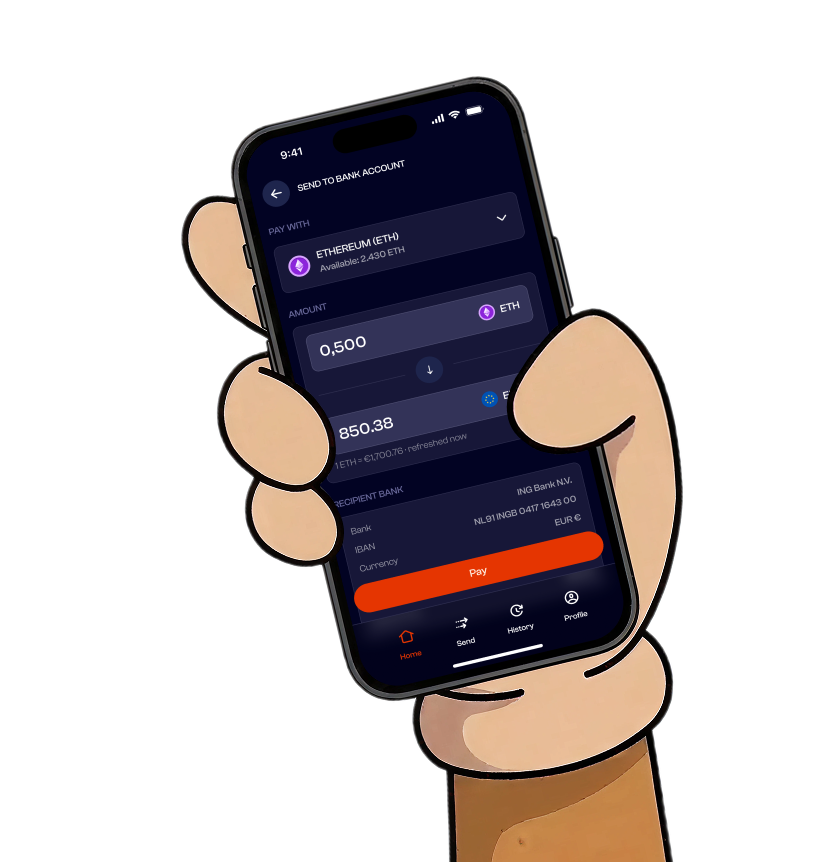
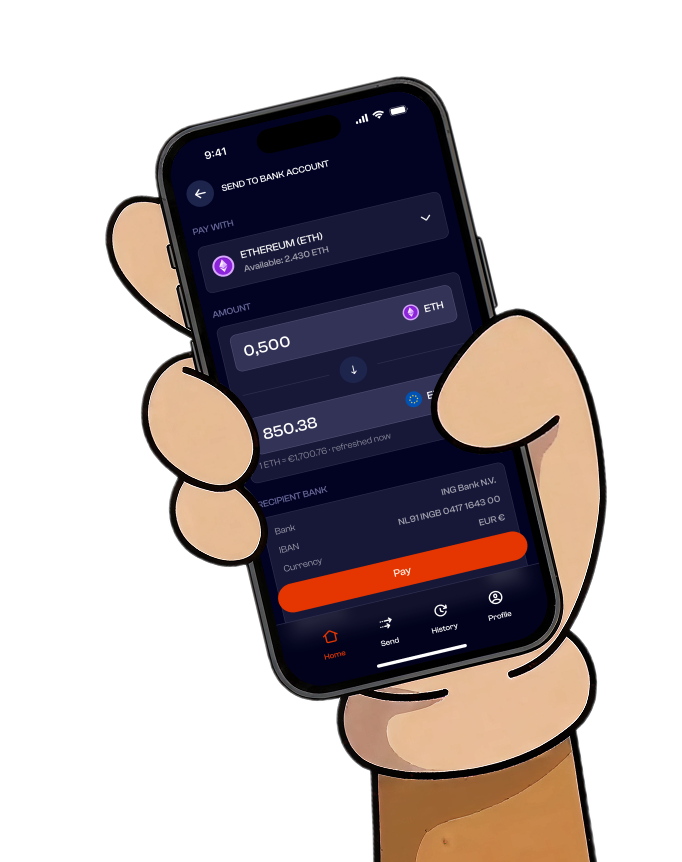
update dogepay hero mobile

Changed region(s): [[0.154, 0.0905, 0.893, 1.0], [0.6158, 0.935, 0.7082, 0.9652], [0.5543, 0.9652, 0.6158, 1.0]]

diff --git a/src/components/DogePay/DogePayHero.vue b/src/components/DogePay/DogePayHero.vue
@@ -17,116 +17,121 @@ const scrollToPresale = () => {
 <template>
   <section
     id="hero"
-    class="relative h-screen min-h-screen scroll-mt-28 overflow-hidden scrollbar-hide"
+    class="relative scroll-mt-28 overflow-hidden scrollbar-hide md:flex md:h-screen md:min-h-screen md:flex-col md:min-h-0"
   >
     <!-- Background: no overlays — show asset as exported -->
     <img
       :src="heroBg"
       alt=""
-      class="absolute inset-0 z-0 h-full w-full object-cover object-top"
+      class="pointer-events-none absolute inset-0 z-0 h-full w-full object-cover object-top"
     />
 
-    <!-- Ball: full-bleed layer so % center = viewport center (fixes ~1440px vs max-w-[1440px] mismatch) -->
+    <!-- Ball: decorative; position/size per breakpoint in scoped CSS -->
     <img
       :src="heroBall"
       alt=""
       class="dogepay-hero-ball pointer-events-none absolute z-[1] h-auto max-w-none object-contain"
     />
 
-    <!-- Hand: constrained column; ball is NOT inside this wrapper -->
+    <!--
+      Flex: col (mobile) / row (md+) — copy then hand. No section pt: padding-top lives on copy only so
+      the hand column can stretch from the top of the hero (avoids empty band beside the illustration).
+      z-index: hand < mask < copy.
+    -->
     <div
-      class="pointer-events-none absolute inset-0 z-[2] mx-auto flex max-h-none min-h-0 w-full max-w-[1440px] justify-end px-5 md:px-10 lg:px-14"
+      class="relative mx-auto flex w-full max-w-[1440px] flex-1 flex-col items-stretch px-5 lg:min-h-0 lg:h-full lg:flex-row lg:items-stretch lg:px-14"
     >
       <div
-        class="relative ml-auto h-full min-h-full w-full max-w-[min(100%,800px)] shrink-0"
+        class="relative z-[10] w-full max-w-md shrink-0 self-start pt-[92px] lg:mx-0 lg:w-auto lg:self-start lg:pt-[128px] lg:text-left lg:max-w-[840px] lg:pt-[140px]"
+      >
+        <div class="mt-3 md:mt-12 lg:mt-14">
+          <div class="title text-left">
+            <span class="block">PAY WITH CRYPTO.</span>
+            <span class="block">RECEIVE IN FIAT.</span>
+            <span class="block">INSTANTLY.</span>
+          </div>
+          <p
+            class="subtitle-text mx-auto mt-4 max-w-[470px] text-left font-grotesk text-base font-normal leading-[120%] max-md:mt-3 max-md:text-sm md:mx-0 md:mt-6"
+          >
+            DOGEPAY is the next-gen payment layer that connects crypto with
+            real-world money — fast, simple, and borderless.
+          </p>
+          <p
+            class="mt-4 text-left font-grotesk text-base font-medium max-md:mt-3 max-md:text-sm md:text-xl"
+          >
+            Welcome to the PayFi revolution!
+          </p>
+          <div class="mt-8 flex justify-center md:justify-start">
+            <CustomButton
+              title="Join Presale"
+              class="w-full md:w-auto min-w-[300px] px-8 py-[8px] !text-[16px]"
+              @click="scrollToPresale"
+            />
+          </div>
+        </div>
+      </div>
+
+      <!-- Hand: in-flow on mobile; right column md+ — below mask (z-[5]) -->
+      <div
+        class="dogepay-hero-hand-cell relative z-[2] w-full min-w-0 max-w-full max-md:max-w-none max-md:shrink-0 md:flex-1 md:self-stretch"
       >
         <img
           :src="heroHand"
           alt=""
-          class="dogepay-hero-hand pointer-events-none absolute bottom-0 z-[2] object-contain object-bottom"
+          class="dogepay-hero-hand pointer-events-none block max-w-full"
         />
       </div>
     </div>
 
-    <!-- Foliage mask: bottom-aligned; -1px bottom kills subpixel gap; object-bottom keeps art flush -->
+    <!-- Foliage mask: above ball + hand (pointer-events-none so CTAs stay clickable) -->
     <img
       :src="heroMask"
       alt=""
-      class="dogepay-hero-mask pointer-events-none absolute z-[3] w-full"
+      class="dogepay-hero-mask pointer-events-none absolute z-[5] w-full"
     />
-
-    <!-- Copy: padded down from the header so it isn’t hugging the top -->
-    <div
-      class="relative z-[4] mx-auto grid h-full min-h-full max-w-[1440px] items-start gap-8 px-5 pb-12 pt-[128px] max-md:pt-[108px] md:grid-cols-[1fr_1.05fr] md:gap-6 md:px-10 md:pb-12 md:pt-[158px] lg:pt-[172px] lg:px-14"
-    >
-      <div
-        class="mx-auto w-full max-w-xl self-start text-center md:mt-4 md:mx-0 md:text-left lg:max-w-[840px]"
-      >
-        <div
-          class="title px-1 md:px-0 !text-3xl !leading-[115%] md:!text-4xl md:!leading-[112%] lg:!text-[46px] lg:!leading-[110%]"
-        >
-          <span class="block">PAY WITH CRYPTO.</span>
-          <span class="block">RECEIVE IN FIAT.</span>
-          <span class="block">INSTANTLY.</span>
-        </div>
-        <p
-          class="subtitle-text mx-auto mt-4 max-w-[470px] font-grotesk text-base font-normal leading-[120%] max-md:mt-3 max-md:text-sm md:mx-0 md:mt-6"
-        >
-          DOGEPAY is the next-gen payment layer that connects crypto with
-          real-world money — fast, simple, and borderless.
-        </p>
-        <p
-          class="mx-auto mt-4 font-grotesk text-base font-medium max-md:mt-3 max-md:text-sm md:mx-0 md:text-xl"
-        >
-          Welcome to the PayFi revolution!
-        </p>
-        <div class="mt-8 flex justify-center md:justify-start">
-          <CustomButton
-            title="Join Presale"
-            class="min-w-[300px] px-8 py-[8px] !text-[16px]"
-            @click="scrollToPresale"
-          />
-        </div>
-      </div>
-
-      <!-- Spacer so grid matches illustration column on desktop -->
-      <div
-        class="hidden min-h-[min(52vh,420px)] md:block md:min-h-[420px]"
-        aria-hidden="true"
-      />
-    </div>
   </section>
 </template>
 
 <style scoped>
-/* Ball: hidden on small screens; from tablet — center shifted further left */
+/* Ball — mobile: visible, inset from left; tablet: smaller + further left; desktop: larger + further left */
 .dogepay-hero-ball {
-  display: none !important;
+  display: block !important;
+  height: auto !important;
+  max-height: none !important;
 }
 
-@media (min-width: 768px) {
+@media (max-width: 767px) {
   .dogepay-hero-ball {
-    display: block !important;
-    bottom: 6%;
+    left: 1% !important;
+    right: auto !important;
+    bottom: 12%;
+    transform: none !important;
+    width: clamp(84px, 21vw, 118px) !important;
+  }
+}
+
+@media (min-width: 768px) and (max-width: 1023px) {
+  .dogepay-hero-ball {
+    bottom: 12%;
     left: 50%;
-    transform: translateX(calc(-50% - 100px));
-    width: clamp(108px, 16vw, 176px) !important;
-    height: auto !important;
-    max-height: none !important;
+    transform: translateX(calc(-50% - 148px)) !important;
+    width: clamp(100px, 13vw, 164px) !important;
   }
 }
 
 @media (min-width: 1024px) {
   .dogepay-hero-ball {
     bottom: 7%;
+    left: 50%;
+    transform: translateX(calc(-50% - 168px)) !important;
+    width: clamp(108px, 16vw, 176px) !important;
   }
 }
 
-/* Bottom foliage mask: extend 1px past hero bottom to remove hairline gap */
 .dogepay-hero-mask {
   position: absolute;
   inset: 0 0 -1px 0;
-  z-index: 3;
+  z-index: 5;
   min-height: calc(100% + 1px) !important;
   width: 100% !important;
   height: auto !important;
@@ -136,46 +141,81 @@ const scrollToPresale = () => {
 }
 
 /*
-  Global main.css sets img { width: 100%; height: 100%; } — override explicitly.
-  Mobile: full width. Tablet+: fill column height (width follows aspect ratio).
+  Hand cell + image:
+  — mobile: width 100%, natural height, stacked under copy
+  — tablet (md–lg): width 100%, column flex aligns image to bottom
+  — desktop (lg+): image never exceeds cell — max 100% × 100%, contain, centered
 */
-.dogepay-hero-hand {
-  display: block !important;
-  left: 0 !important;
-  right: 0 !important;
-  width: 100% !important;
-  max-width: none !important;
-  height: auto !important;
-  max-height: none !important;
+.dogepay-hero-hand-cell {
+  display: flex;
+  width: 100%;
+  min-height: 0;
 }
 
-@media (min-width: 768px) {
+/* Mobile — width 100%, stack under copy */
+@media (max-width: 767px) {
+  .dogepay-hero-hand-cell {
+    align-items: stretch;
+    justify-content: flex-start;
+  }
+
   .dogepay-hero-hand {
-    left: auto !important;
-    width: auto !important;
+    width: 100% !important;
+    height: auto !important;
+    max-height: none !important;
     max-width: 100% !important;
-    height: 100% !important;
-    max-height: 100% !important;
+    object-fit: contain !important;
+    object-position: bottom center !important;
   }
 }
 
-/*
-  Pull past the inner column so the hand lines up with the viewport edge.
-  Outer row uses px-5 / md:px-10 / lg:px-14 — negative right must exceed that inset.
-*/
+/* Tablet — width 100%, anchored to bottom of column */
 @media (min-width: 768px) and (max-width: 1023px) {
+  .dogepay-hero-hand-cell {
+    min-height: min(52vh, 420px);
+    align-items: flex-end;
+    justify-content: center;
+  }
+
   .dogepay-hero-hand {
-    right: -96px !important;
+    width: 100% !important;
+    height: auto !important;
+    max-height: min(52vh, 420px) !important;
+    max-width: 100% !important;
+    object-fit: contain !important;
+    object-position: bottom center !important;
   }
 }
 
+/* Desktop — keep bitmap inside the cell (no “taller than 100%” crop bleed); letterbox if aspect differs */
 @media (min-width: 1024px) {
+  .dogepay-hero-hand-cell {
+    position: relative;
+    align-self: stretch;
+    min-height: 0;
+    flex: 1 1 0%;
+    overflow: hidden;
+    margin-right: -112px;
+    width: calc(100% + 112px);
+    max-width: none;
+  }
+
   .dogepay-hero-hand {
-    right: -112px !important;
+    position: absolute !important;
+    left: 50% !important;
+    top: 50% !important;
+    right: auto !important;
+    bottom: auto !important;
+    width: auto !important;
+    height: auto !important;
+    max-width: 100% !important;
+    max-height: 100% !important;
+    transform: translate(-50%, -50%) !important;
+    object-fit: contain !important;
+    object-position: center center !important;
   }
 }
 
-/* Match Home hero subtitle readability on photo backgrounds */
 .subtitle-text {
   text-shadow:
     0 2px 8px rgba(0, 0, 0, 0.8),
